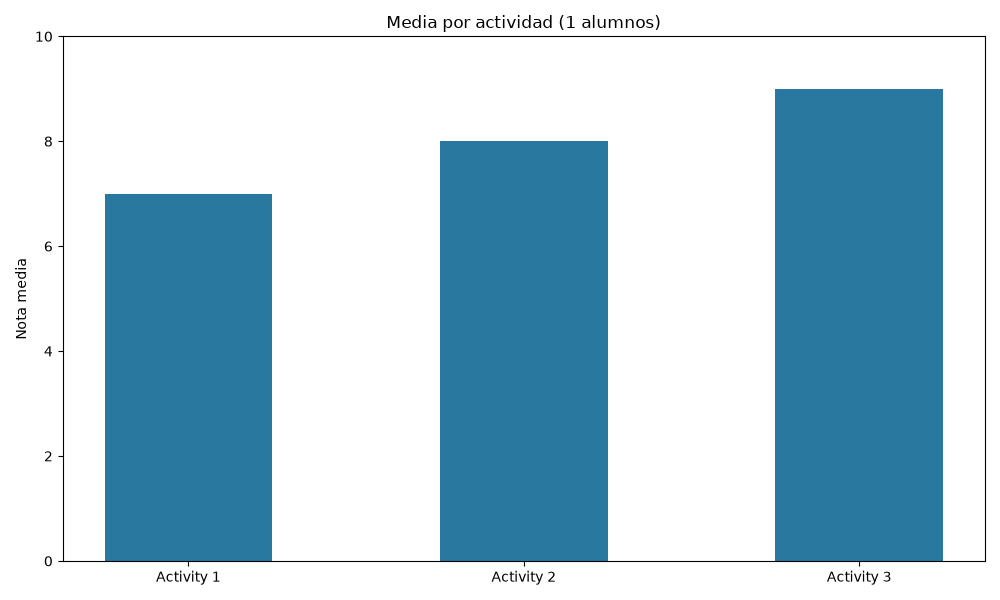
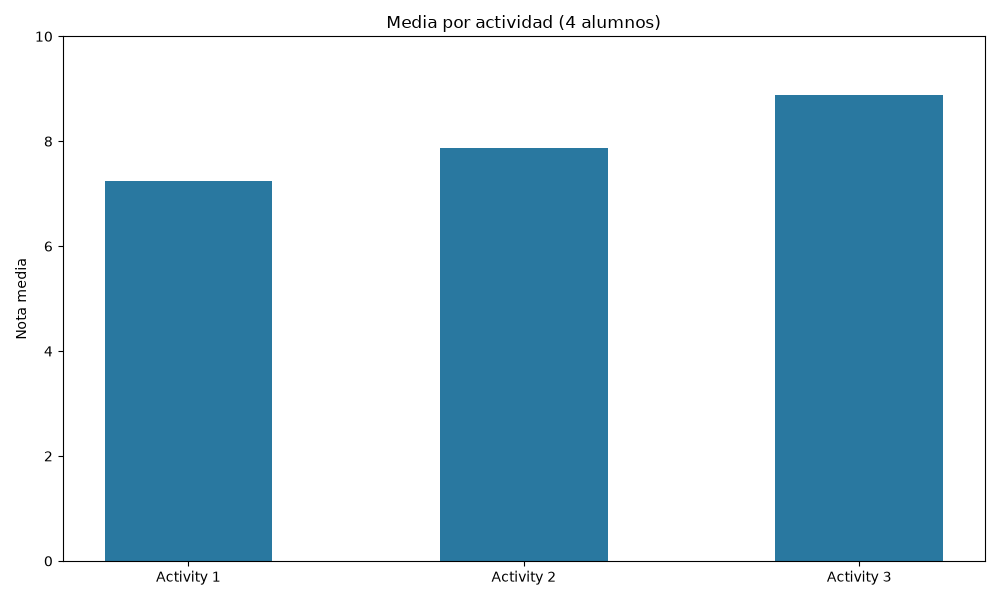
more data in input files, updated requirements and added readme

diff --git a/README.md b/README.md
@@ -1,0 +1,92 @@
+# Matching Pandas Activity
+
+Project for data ingestion, cleaning, consolidation, export, and visualization of student grades using Python, **pandas**, and **matplotlib**.
+
+## Project Overview
+
+This project reads student records and exam/activity scores from CSV files, cleans and validates the data (handling duplicates, missing values, and out-of-range marks), merges the datasets, computes grade summaries, exports the consolidated report to both CSV and JSON formats, and produces a bar chart visualization representing the average score across activities.
+
+## Features
+
+- **Data Ingestion & Cleaning**:
+  - Reads `alumnos.csv` and `notas.csv` using `;` delimiter and UTF-8 encoding.
+  - Retains student ID leading zeros using string types.
+  - Removes duplicate records by `id_alumno`.
+  - Normalizes and bounds numeric grades between 0 and 10.
+  - Detects unmatched students and grades (students without marks, and grades without matching student profiles).
+- **Consolidation**:
+  - Performs a left join matching students with their grades.
+  - Computes `total` (mean of valid activities) and `average` per student.
+- **Reporting & Exporting**:
+  - Displays a summary table in the terminal.
+  - Exports reports to `datos/salida/report.csv` and `datos/salida/report.json`.
+  - Validates integrity of exported files.
+- **Data Visualization**:
+  - Generates a bar chart comparing averages per activity (`Activity 1`, `Activity 2`, `Activity 3`) for students with all completed grades.
+  - Saves chart to `datos/salida/media_actividades.png`.
+
+## Project Structure
+
+```text
+matching_pandas/
+├── datos/
+│   ├── entrada/
+│   │   ├── alumnos.csv       # Student data (id_alumno;nombre)
+│   │   └── notas.csv         # Scores data (id_alumno;nota1;nota2;nota3)
+│   └── salida/               # Generated reports and charts (auto-created)
+│       ├── media_actividades.png
+│       ├── report.csv
+│       └── report.json
+├── datos.py                  # Data processing, report generation & visualization functions
+├── main.py                   # CLI interactive menu
+├── requirements.txt          # Project dependencies (pandas, matplotlib)
+└── README.md                 # Project documentation
+```
+
+## Requirements
+
+- Python 3.8+
+- Dependencies listed in `requirements.txt`:
+  - `pandas`
+  - `matplotlib`
+
+## Installation & Setup
+
+1. **Clone or open the repository**:
+   ```bash
+   cd matching_pandas
+   ```
+
+2. **Create and activate a virtual environment**:
+   ```bash
+   python3 -m venv .venv
+   source .venv/bin/activate
+   ```
+
+3. **Install dependencies**:
+   ```bash
+   pip install -r requirements.txt
+   ```
+
+## Usage
+
+Run the main application:
+
+```bash
+python main.py
+```
+
+### Interactive Menu Options
+
+```text
+PANDAS ACTIVITY - MAIN MENU
+1. Prepare data
+2. Save report
+3. Show graphic
+4. Exit
+```
+
+1. **Prepare data**: Loads and validates the input datasets, reports missing/duplicated data, computes summary statistics, and prepares the internal dataset.
+2. **Save report**: Shows a formatted table in the console, displays student completion stats, and saves both `report.csv` and `report.json` in `datos/salida/`.
+3. **Show graphic**: Computes the mean for each activity (for students with complete scores), saves the chart to `datos/salida/media_actividades.png`, and displays it.
+4. **Exit**: Closes the program.
